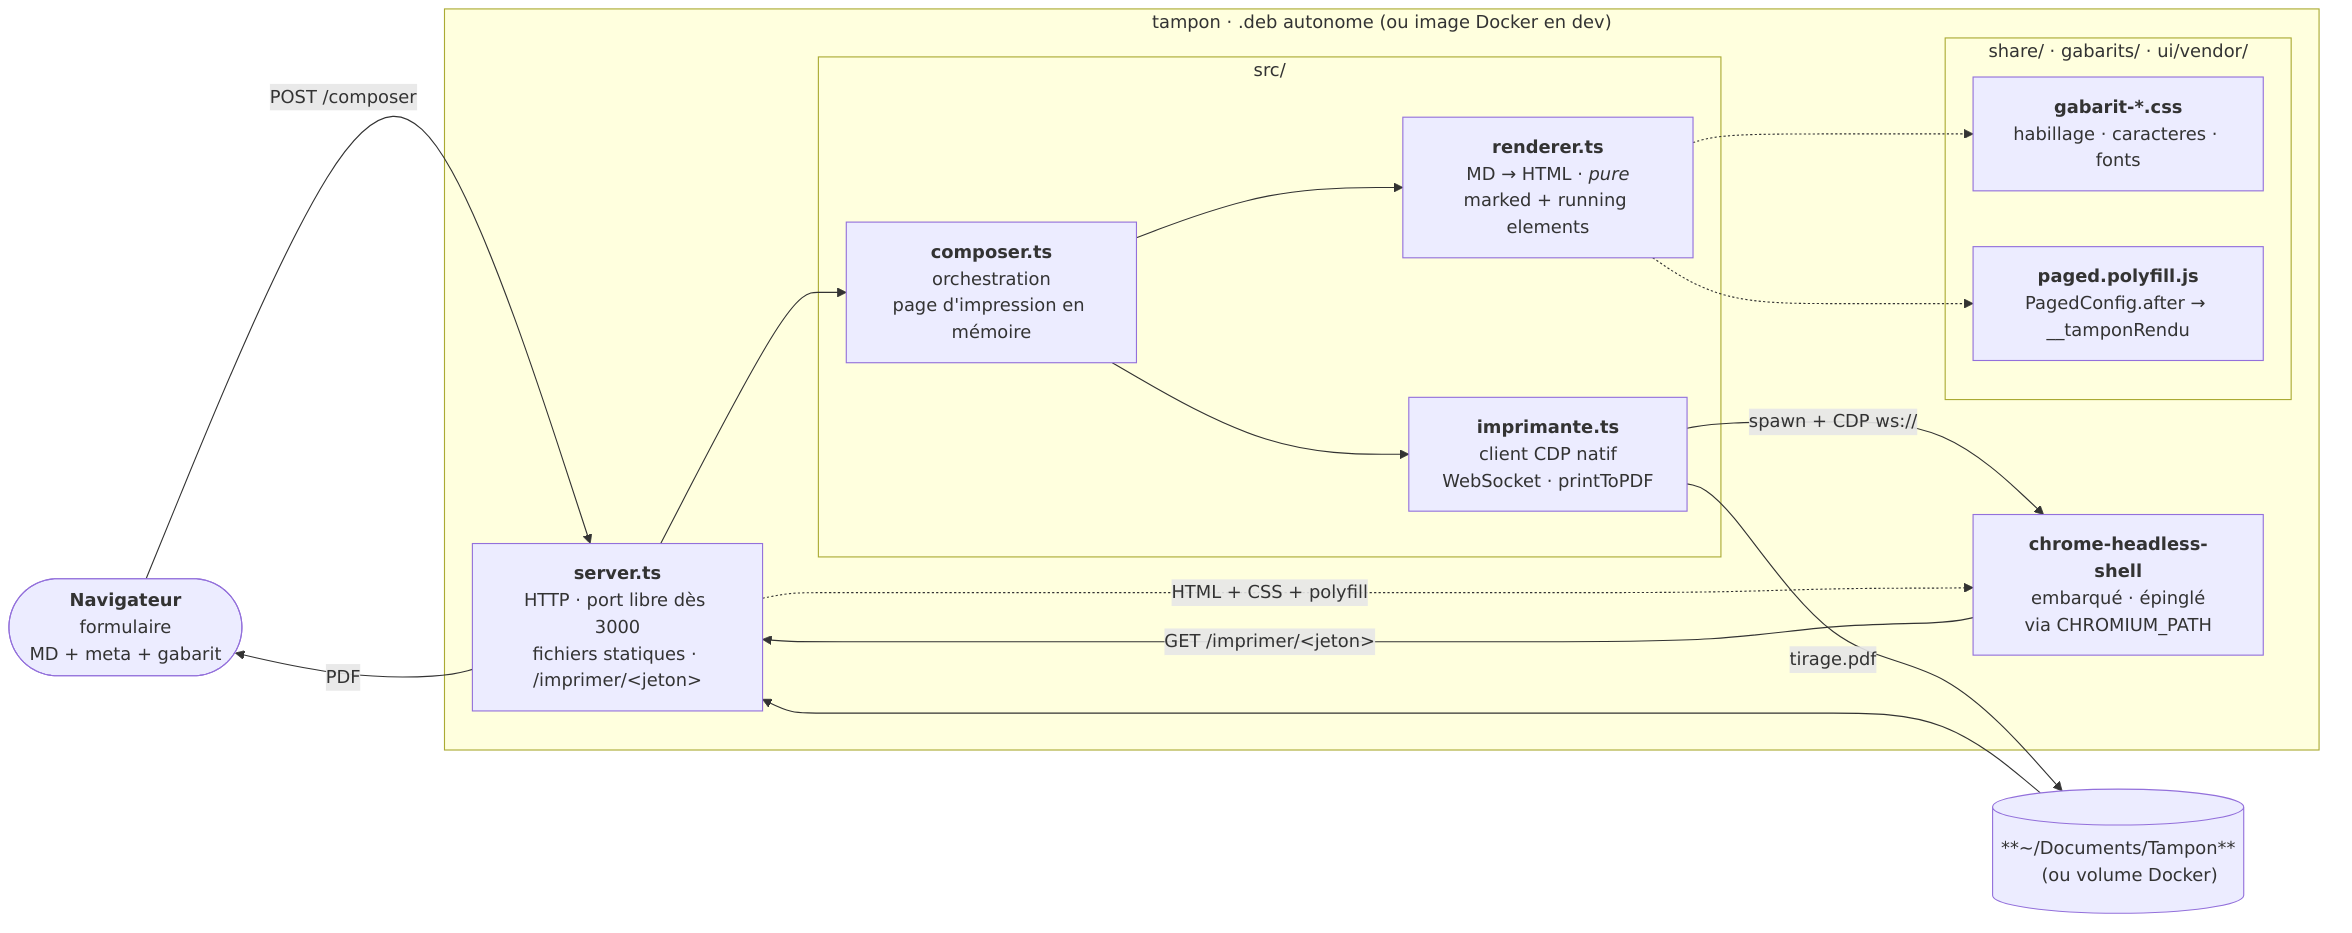
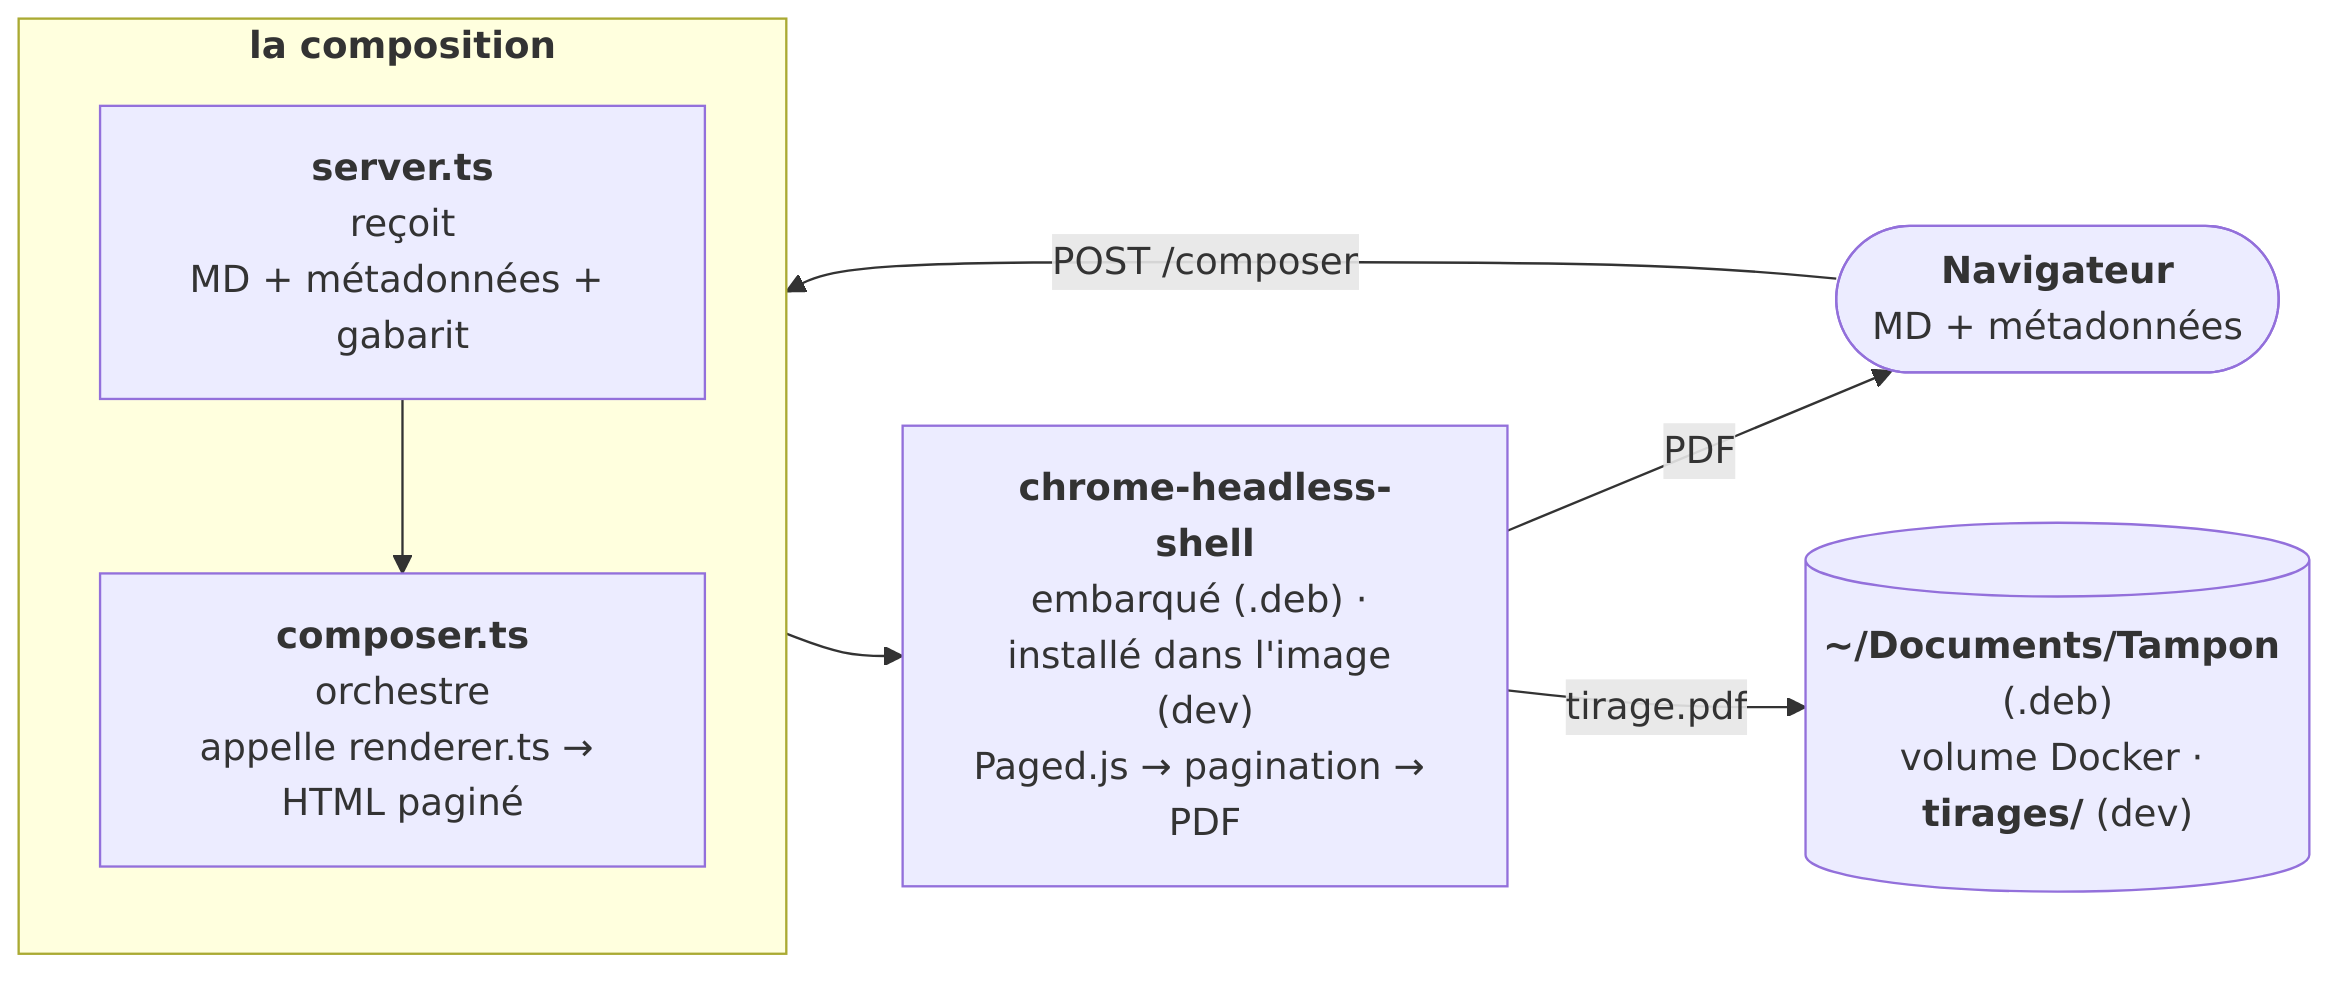
docs : simplifie le diagramme d'architecture (#8)

diff --git a/README.md b/README.md
@@ -70,7 +70,7 @@ Le contenu du document commence ici...
 
 | Champ | Rôle |
 |---|---|
-| `gabarit` | `rapport`, `lettre` ou `ap` |
+| `gabarit` | `rapport`, `lettre` etc. |
 | `titre` | Affiché dans le bandeau haut et le nom du PDF |
 | `date` | Affiché dans le bandeau haut |
 | `auteur` | Affiché dans le pied de page |
@@ -81,11 +81,7 @@ Le contenu du document commence ici...
 
 **Lettre** — format épistolaire : premier paragraphe aligné à droite (lieu et date), dernier paragraphe aligné à gauche (formule de politesse).
 
-**Style AP** — grille modulaire (module 5 mm), échelle typographique de raison 1.25, fontes Jost / Inter / InterTight embarquées.
-
 ## Architecture
-
-![Architecture](docs/rendus/architecture.png)
 
 Le pipeline délègue autant que possible à [Paged.js](https://pagedjs.org/) :
 
@@ -94,6 +90,10 @@ Le pipeline délègue autant que possible à [Paged.js](https://pagedjs.org/) :
 - **`imprimante.ts`** pilote `chrome-headless-shell` en **Chrome DevTools Protocol** natif (WebSocket) : chargement de la page d'impression, attente de la fin de pagination Paged.js, `Page.printToPDF`
 
 `composer.ts` orchestre : génère la page d'impression (servie en mémoire sur `/imprimer/<jeton>`), appelle `imprimante.ts`, retourne le nom du PDF produit. Ni puppeteer ni pagedjs-cli : le pipeline tient dans un binaire `bun build --compile`.
+
+Ce pipeline (`src/`) est strictement identique en paquet `.deb` et en développement ; seuls changent la provenance de `chrome-headless-shell` (embarqué dans le binaire vs installé dans l'image Docker) et le dossier où atterrissent les PDFs (`~/Documents/Tampon/` vs volume Docker `tirages/`) :
+
+![Architecture](docs/rendus/architecture.png)
 
 ## Prérequis
 